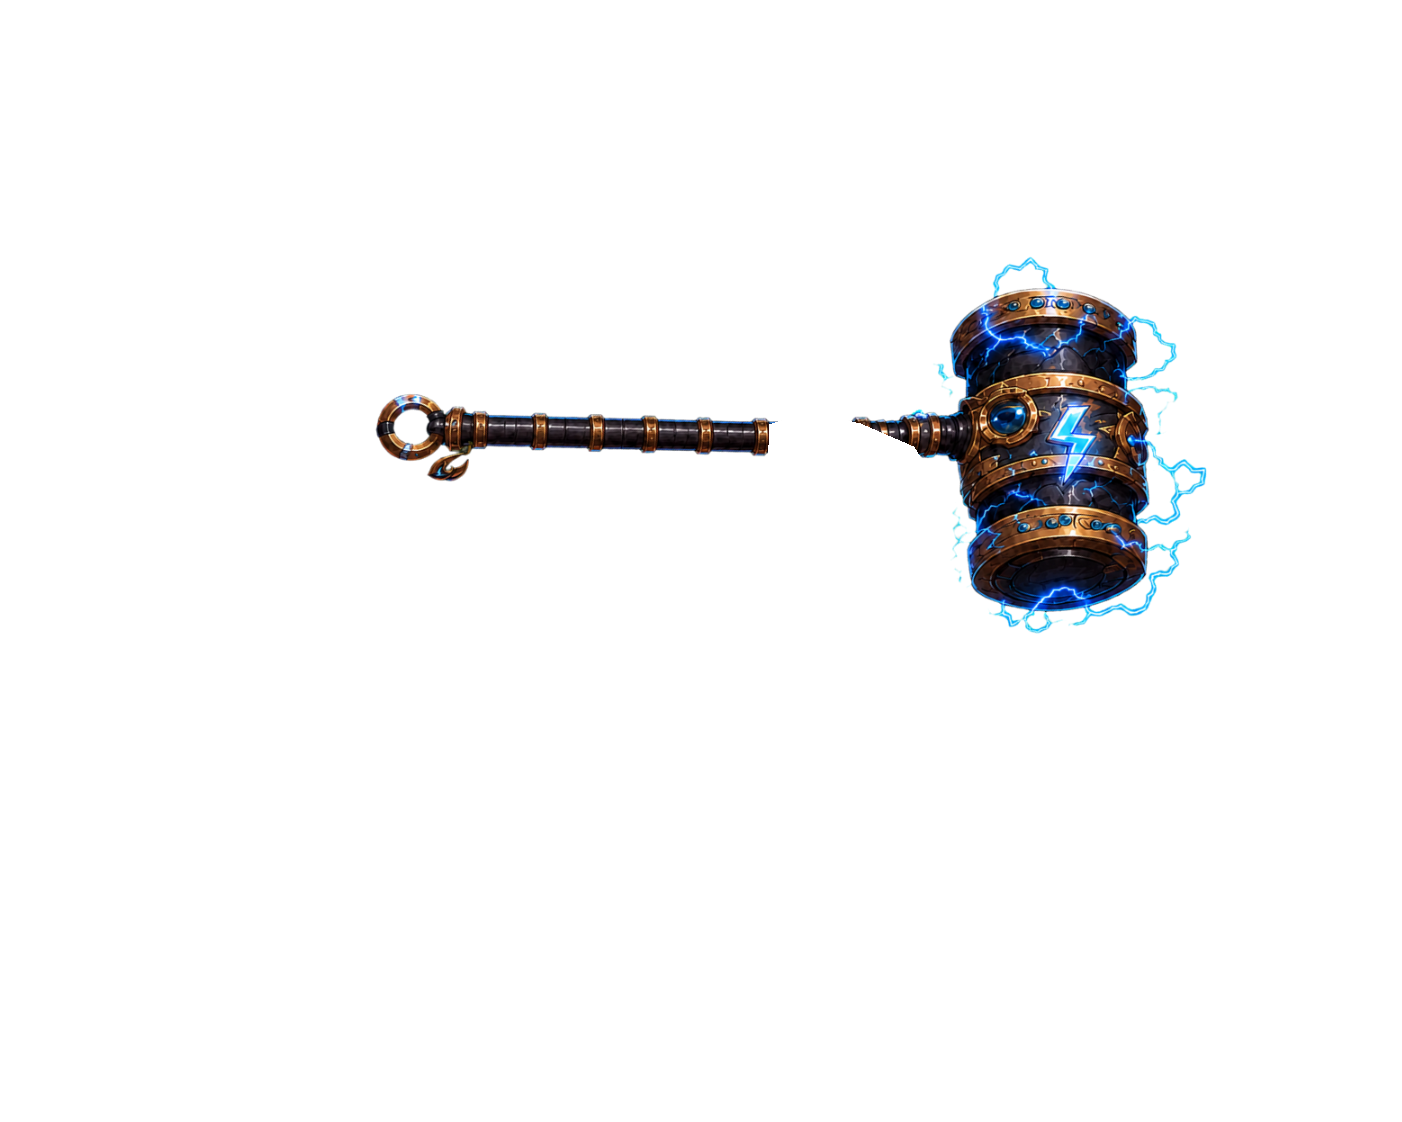
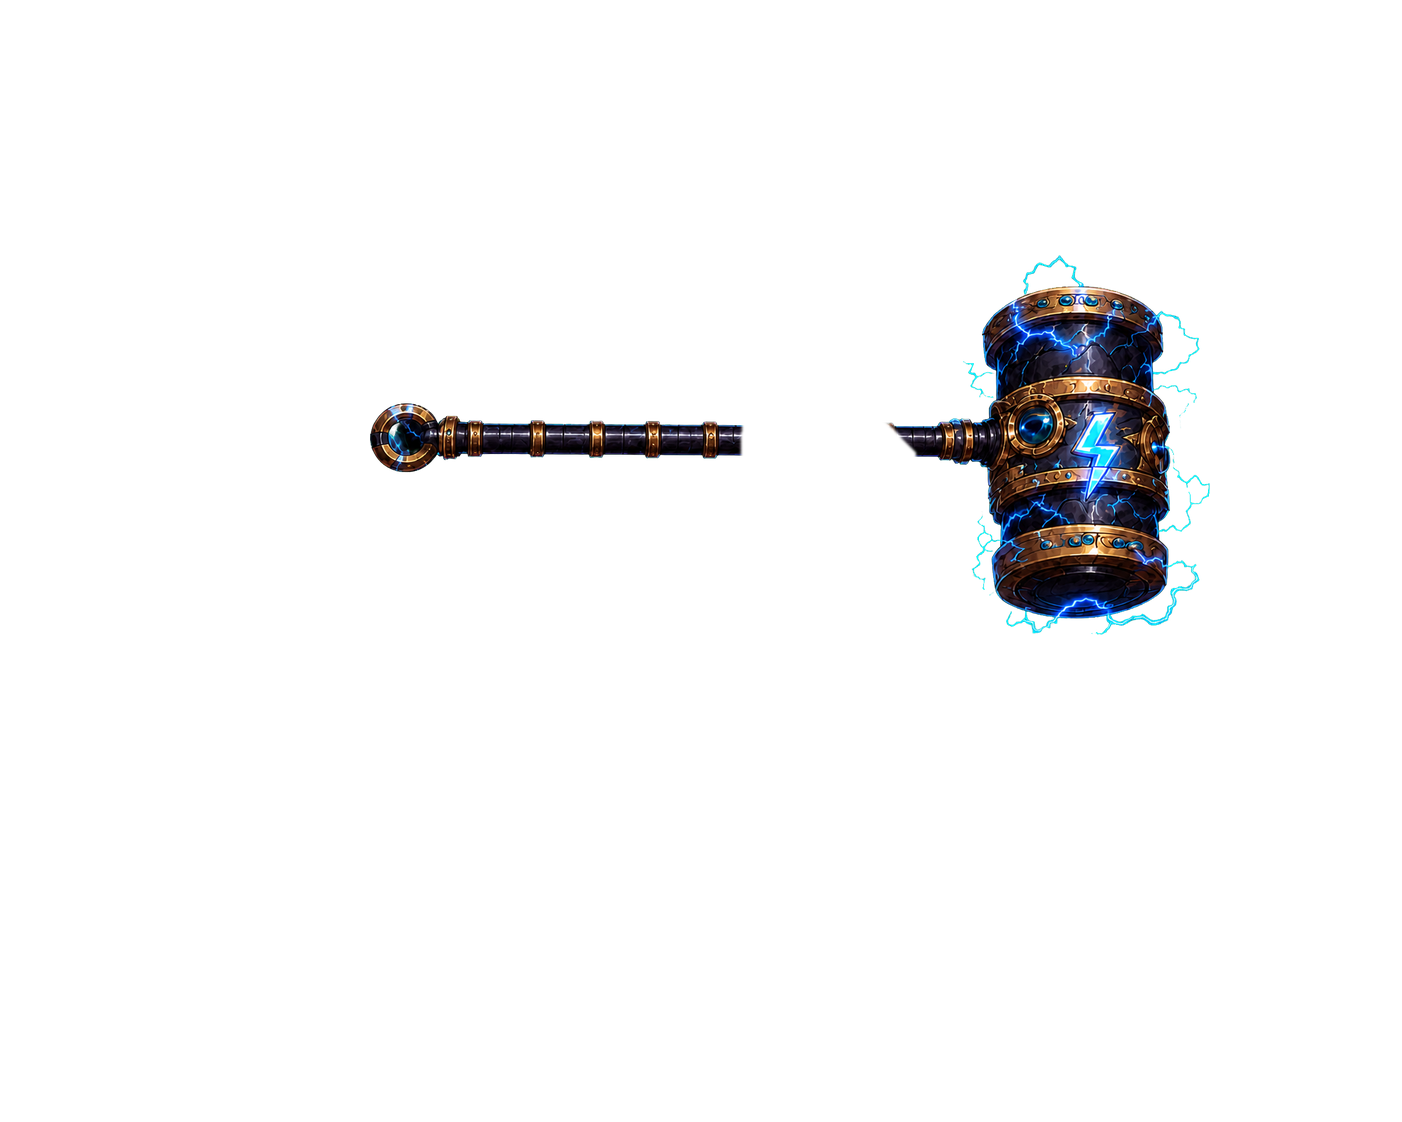
Refit Stormcaller gear to Pappa Hammer anatomy

Changed region(s): [[0.6134, 0.2184, 0.8588, 0.5615], [0.2454, 0.3431, 0.5521, 0.4367]]

diff --git a/script.js b/script.js
@@ -45,13 +45,13 @@
   function alignedGearSource(path,theme){return Object.freeze({mode:'aligned',path,theme,image:loadImage(path),width:1402,height:1122,columns:1,rows:1})}
   // Every Stormcaller source uses the approved 1402x1122 V1 master canvas and origin.
   const productionGearAtlases=Object.freeze({
-    stormcallerCape:alignedGearSource('assets/equipment/stormcaller/legendary_stormcaller_cape_01.png?v=20260805-krita-fit','stormrunner'),
-    stormcallerLegs:alignedGearSource('assets/equipment/stormcaller/legendary_stormcaller_legs_01.png?v=20260805-krita-fit','stormrunner'),
-    stormcallerBoots:alignedGearSource('assets/equipment/stormcaller/legendary_stormcaller_boots_01.png?v=20260805-krita-fit','stormrunner'),
-    stormcallerChest:alignedGearSource('assets/equipment/stormcaller/legendary_stormcaller_chest_01.png?v=20260805-krita-fit','stormrunner'),
-    stormcallerScarf:alignedGearSource('assets/equipment/stormcaller/legendary_stormcaller_scarf_01.png?v=20260805-krita-fit','stormrunner'),
-    stormcallerHat:alignedGearSource('assets/equipment/stormcaller/legendary_stormcaller_hat_01.png?v=20260805-krita-fit','stormrunner'),
-    stormcallerWeapon:alignedGearSource('assets/equipment/stormcaller/legendary_stormcaller_weapon_01.png?v=20260805-krita-fit','stormrunner')
+    stormcallerCape:alignedGearSource('assets/equipment/stormcaller/legendary_stormcaller_cape_01.png?v=20260806-anatomy-v4','stormrunner'),
+    stormcallerLegs:alignedGearSource('assets/equipment/stormcaller/legendary_stormcaller_legs_01.png?v=20260806-anatomy-v4','stormrunner'),
+    stormcallerBoots:alignedGearSource('assets/equipment/stormcaller/legendary_stormcaller_boots_01.png?v=20260806-anatomy-v4','stormrunner'),
+    stormcallerChest:alignedGearSource('assets/equipment/stormcaller/legendary_stormcaller_chest_01.png?v=20260806-anatomy-v4','stormrunner'),
+    stormcallerScarf:alignedGearSource('assets/equipment/stormcaller/legendary_stormcaller_scarf_01.png?v=20260806-anatomy-v4','stormrunner'),
+    stormcallerHat:alignedGearSource('assets/equipment/stormcaller/legendary_stormcaller_hat_01.png?v=20260806-anatomy-v4','stormrunner'),
+    stormcallerWeapon:alignedGearSource('assets/equipment/stormcaller/legendary_stormcaller_weapon_01.png?v=20260806-anatomy-v4','stormrunner')
   });
   let handlavaHitSplashSprite=null,ancientEntSprite=null,natureRootTrapSprite=null,handlavaSprites=null;
   function ensureHandlavaSprites(){

diff --git a/art/tools/build_stormcaller_anatomy_v4.py b/art/tools/build_stormcaller_anatomy_v4.py
@@ -1,0 +1,173 @@
+"""Assemble the anatomy-first Stormcaller v4 production layers.
+
+Generated source objects are treated as editable art references only. They are
+trimmed, fitted to the immutable master landmarks, and restored to the full
+1402x1122 canonical canvas before review or publication.
+"""
+
+from __future__ import annotations
+
+import argparse
+import json
+from pathlib import Path
+
+from PIL import Image, ImageDraw, ImageFilter
+
+
+ROOT = Path(__file__).resolve().parents[2]
+MASTER_PATH = ROOT / "art/masters/pappa_hammer_master_v1.png"
+GENERATED = ROOT / "art/working/legendary/stormcaller/anatomy-v4/generated"
+WORK_DIR = ROOT / "art/working/legendary/stormcaller/anatomy-v4/fitted"
+RUNTIME = ROOT / "assets/equipment/stormcaller"
+EXPORT_ROOT = ROOT / "art/exports"
+CANVAS = (1402, 1122)
+ORDER = ("cape", "legs", "boots", "chest", "scarf", "hat", "weapon")
+
+# These boxes are tied to the master landmarks, not to an inventory viewport.
+# They intentionally include armor volume around the underlying anatomy.
+TARGETS = {
+    "cape": (92, 205, 885, 885),
+    "legs": (198, 468, 902, 1038),
+    "chest": (305, 170, 915, 590),
+    "scarf": (265, 190, 730, 410),
+    "hat": (470, 50, 715, 200),
+    "weapon": (370, 255, 1210, 635),
+}
+
+
+def crop_visible(image: Image.Image) -> Image.Image:
+    bounds = image.getchannel("A").getbbox()
+    if not bounds:
+        raise RuntimeError("Generated layer has no visible pixels")
+    return image.crop(bounds)
+
+
+def place_object(source: Image.Image, target: tuple[int, int, int, int]) -> Image.Image:
+    obj = crop_visible(source)
+    x0, y0, x1, y1 = target
+    fitted = obj.resize((x1 - x0, y1 - y0), Image.Resampling.LANCZOS)
+    canvas = Image.new("RGBA", CANVAS, (0, 0, 0, 0))
+    canvas.alpha_composite(fitted, (x0, y0))
+    return canvas
+
+
+def build_boots(source: Image.Image) -> Image.Image:
+    # The source contains two perspective-distinct boots. Fit them independently
+    # to Pappa's two planted feet instead of treating them as a mirrored pair.
+    left = source.crop((120, 285, 565, 990))
+    right = source.crop((760, 250, 1245, 915))
+    left = crop_visible(left).resize((282, 410), Image.Resampling.LANCZOS)
+    right = crop_visible(right).resize((270, 365), Image.Resampling.LANCZOS)
+    canvas = Image.new("RGBA", CANVAS, (0, 0, 0, 0))
+    canvas.alpha_composite(left, (168, 638))
+    canvas.alpha_composite(right, (637, 638))
+    return canvas
+
+
+def clear_weapon_hands(weapon: Image.Image) -> Image.Image:
+    # Weapon renders above the base, so the handle needs one precise opening for
+    # the unchanged master hands. The shaft remains continuous on both sides.
+    mask = Image.new("L", CANVAS, 0)
+    points = [
+        (742, 401),
+        (782, 388),
+        (834, 397),
+        (885, 421),
+        (915, 452),
+        (912, 490),
+        (878, 521),
+        (818, 519),
+        (770, 495),
+        (741, 462),
+    ]
+    ImageDraw.Draw(mask).polygon(points, fill=255)
+    mask = mask.filter(ImageFilter.GaussianBlur(1.25))
+    alpha = weapon.getchannel("A")
+    alpha.paste(0, mask=mask)
+    weapon.putalpha(alpha)
+    return weapon
+
+
+def clear_legs_below_knees(legs: Image.Image) -> Image.Image:
+    """Keep trousers in Legs; shin armor belongs exclusively to Boots."""
+    alpha = legs.getchannel("A")
+    draw = ImageDraw.Draw(alpha)
+    draw.polygon([(165, 720), (438, 700), (520, 1122), (90, 1122)], fill=0)
+    draw.polygon([(625, 690), (915, 690), (1010, 1122), (570, 1122)], fill=0)
+    legs.putalpha(alpha)
+    return legs
+
+
+def source_for(slot: str) -> Image.Image:
+    path = GENERATED / f"{slot}_cutout.png"
+    if not path.exists():
+        raise FileNotFoundError(path)
+    return Image.open(path).convert("RGBA")
+
+
+def build_layer(slot: str) -> Image.Image:
+    source = source_for(slot)
+    if slot == "boots":
+        return build_boots(source)
+    layer = place_object(source, TARGETS[slot])
+    if slot == "weapon":
+        return clear_weapon_hands(layer)
+    if slot == "legs":
+        return clear_legs_below_knees(layer)
+    return layer
+
+
+def build(publish: bool) -> None:
+    WORK_DIR.mkdir(parents=True, exist_ok=True)
+    master = Image.open(MASTER_PATH).convert("RGBA")
+    if master.size != CANVAS:
+        raise RuntimeError(f"Unexpected master canvas: {master.size}")
+
+    layers = {slot: build_layer(slot) for slot in ORDER}
+    for slot, layer in layers.items():
+        layer.save(WORK_DIR / f"legendary_stormcaller_{slot}_02.png", "PNG", optimize=True)
+
+    preview = Image.alpha_composite(layers["cape"], master)
+    for slot in ("legs", "boots", "chest", "scarf", "hat", "weapon"):
+        preview = Image.alpha_composite(preview, layers[slot])
+    preview.save(WORK_DIR / "legendary_stormcaller_set_02_preview.png", "PNG", optimize=True)
+
+    for slot in ORDER:
+        if slot == "cape":
+            review = Image.alpha_composite(layers[slot], master)
+        else:
+            review = Image.alpha_composite(master, layers[slot])
+        review.save(WORK_DIR / f"review_{slot}.png", "PNG", optimize=True)
+
+    manifest = {
+        "master": str(MASTER_PATH.relative_to(ROOT)).replace("\\", "/"),
+        "canvas": list(CANVAS),
+        "version": "stormcaller-anatomy-v4",
+        "layerOrder": list(ORDER),
+        "targets": {key: list(value) for key, value in TARGETS.items()},
+        "boots": {
+            "leftTarget": [168, 638, 450, 1048],
+            "rightTarget": [637, 638, 907, 1003],
+        },
+        "masterModified": False,
+    }
+    (WORK_DIR / "manifest.json").write_text(json.dumps(manifest, indent=2), encoding="utf-8")
+
+    if publish:
+        for slot, layer in layers.items():
+            filename = f"legendary_stormcaller_{slot}_01.png"
+            layer.save(RUNTIME / filename, "PNG", optimize=True)
+            export = EXPORT_ROOT / slot / filename
+            export.parent.mkdir(parents=True, exist_ok=True)
+            layer.save(export, "PNG", optimize=True)
+        preview.save(
+            ROOT / "art/working/legendary/stormcaller/legendary_stormcaller_set_01_preview.png",
+            "PNG",
+            optimize=True,
+        )
+
+
+if __name__ == "__main__":
+    parser = argparse.ArgumentParser()
+    parser.add_argument("--publish", action="store_true")
+    build(parser.parse_args().publish)
